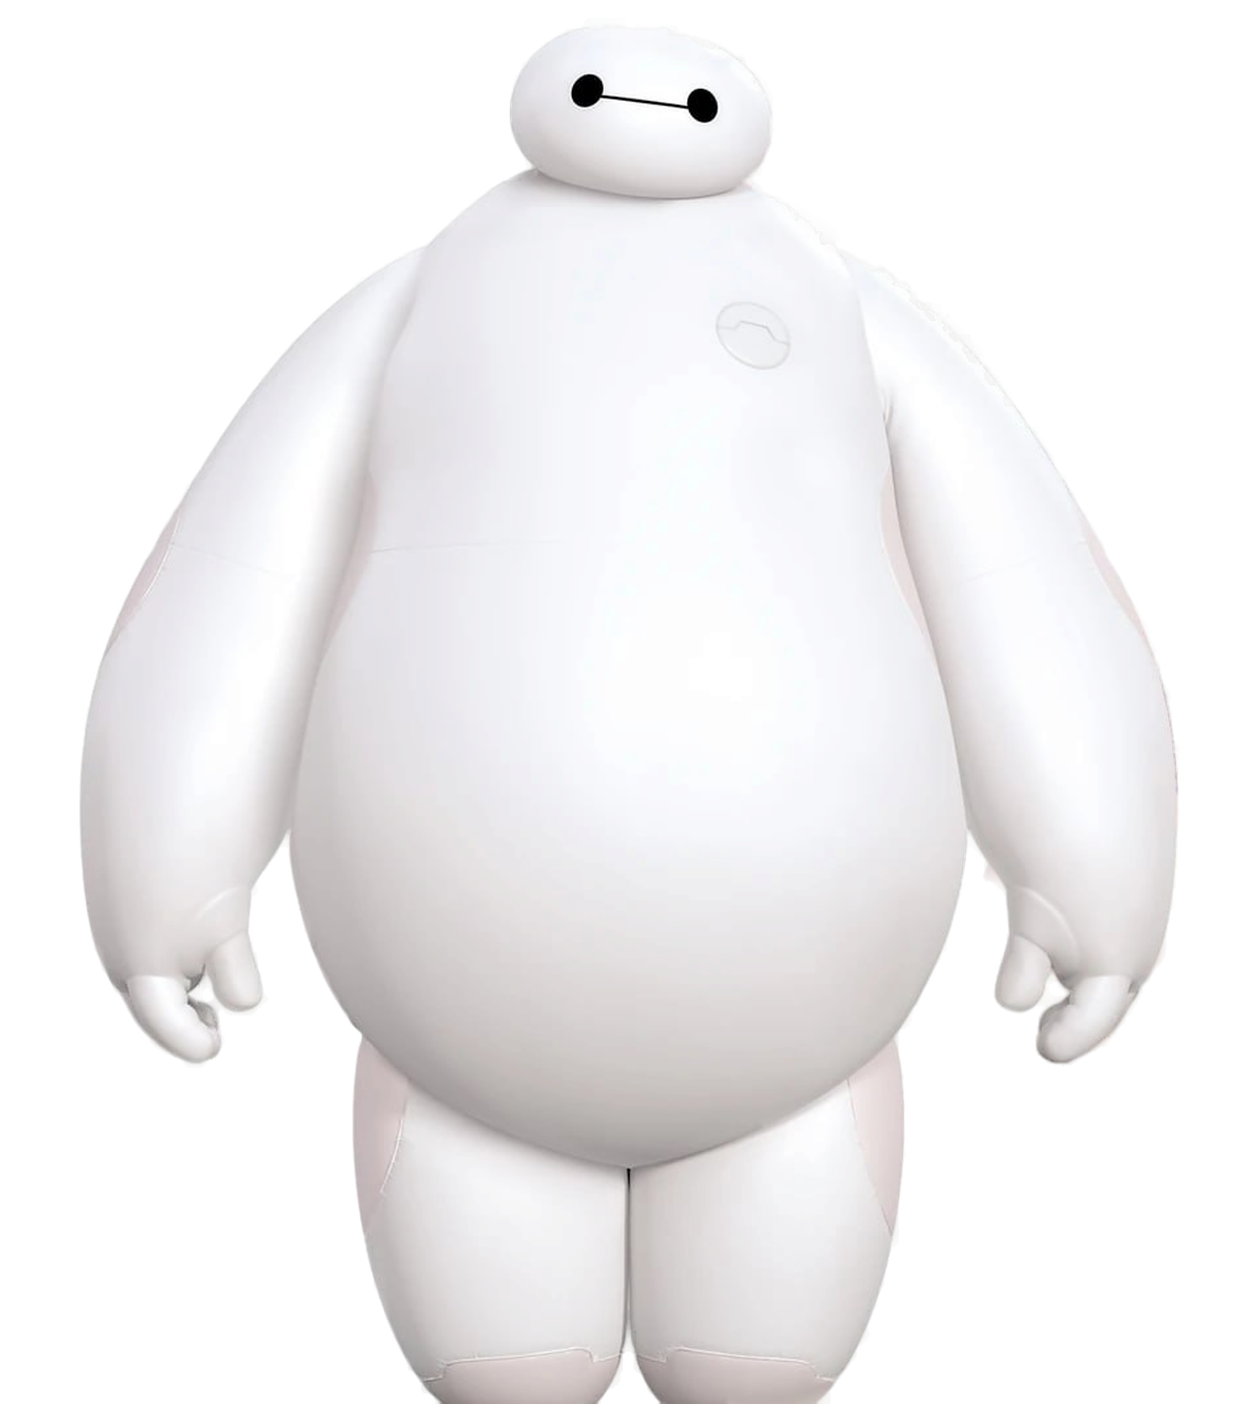
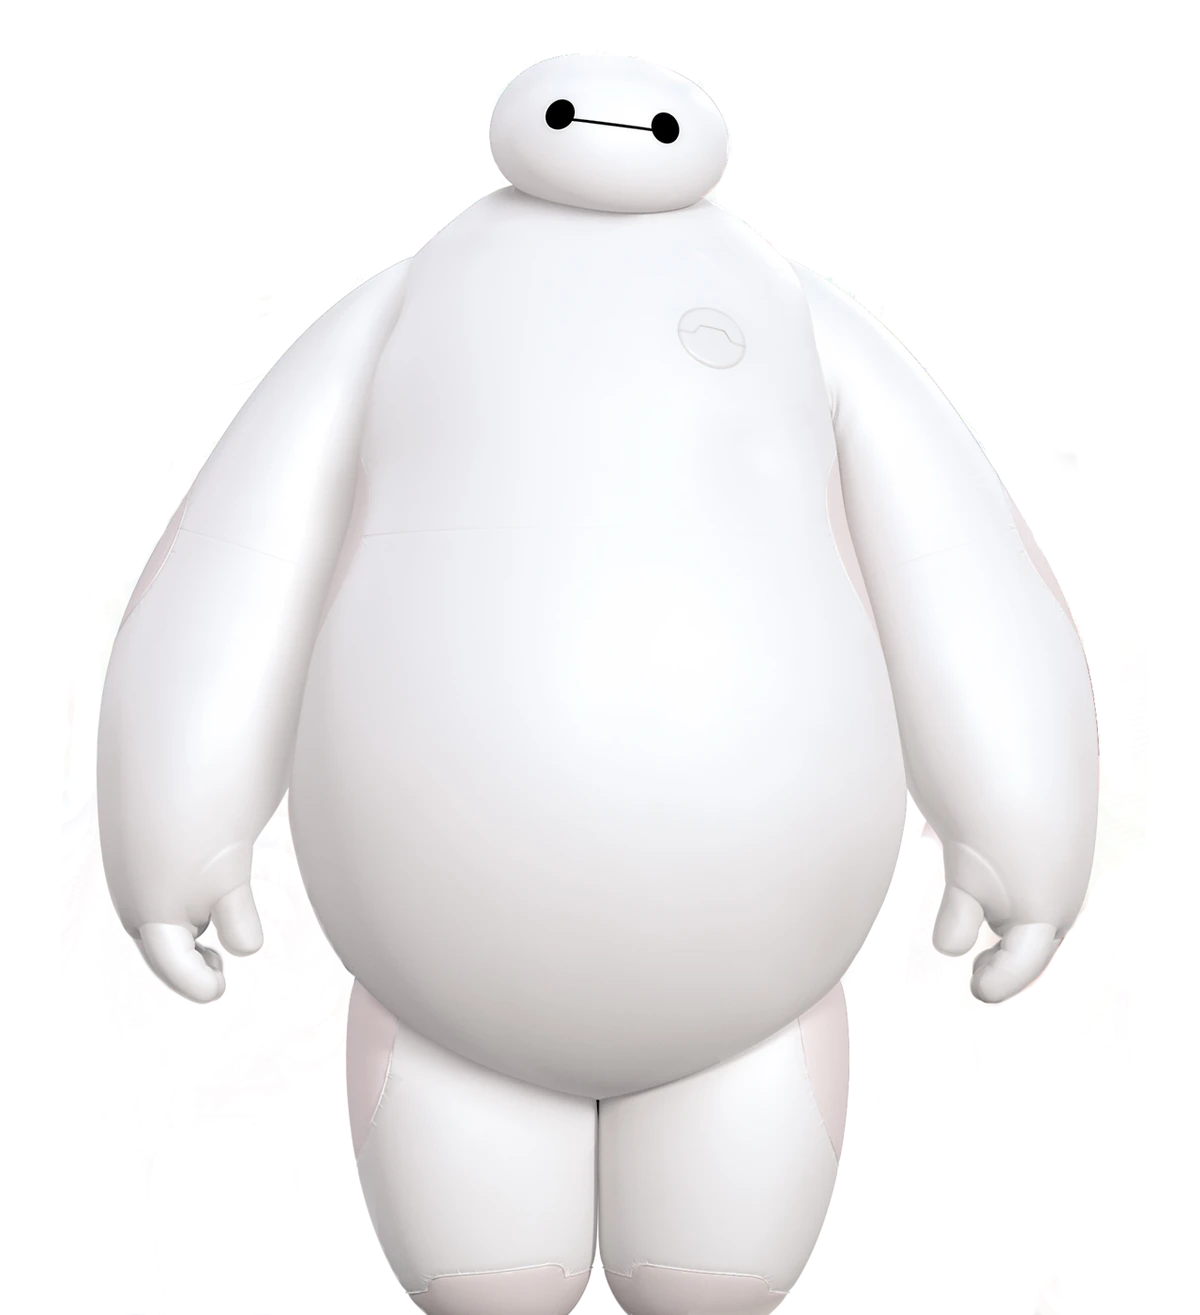
fix(robot): render con alpha limpio (sin cantos) + modo por defecto Greet (quieto)
- xpaceos-robot-chest-photo.png reemplazado por el render con canal alpha (ADMIRITO_Render),
  cache-bust v=admirito-alpha → adiós halo/cantos.
- setMode('greet') por defecto + active en Greet + label 'visitor greeting' → el robot
  se queda quieto en vez de patrullar.

diff --git a/robot/index.html b/robot/index.html
@@ -176,11 +176,11 @@
         <div class="scanline" aria-hidden="true"></div>
         <div class="hud">
           <span class="pill"><span class="dot"></span>robot_surface online</span>
-          <span class="pill mission" id="mission-label">mission · retail media patrol</span>
+          <span class="pill mission" id="mission-label">mission · visitor greeting</span>
         </div>
         <div class="robot-area">
           <div class="robot" id="robot" role="img" aria-label="Robot with a chest screen fed by Admira.tv">
-            <img class="robot-photo" src="/assets/xpaceos-robot-chest-photo.png?v=admirito-cut3" alt="">
+            <img class="robot-photo" src="/assets/xpaceos-robot-chest-photo.png?v=admirito-alpha" alt="">
             <div class="chest" id="chest">
               <div class="screen-fallback"><div><small>Admira.tv local feed</small><b>DOOH</b></div></div>
               <iframe id="admira-feed" title="Admira.tv digital signage feed" src="https://admira.tv/canal.html?clean=1&screen=xpaceos-robot-chest&circuit=xpaceos-robot&slot=auto&refresh=20&max=24&muted=1&volume=1&cam=1&bridge=20260621-audio&mode=local" loading="eager" referrerpolicy="no-referrer-when-downgrade" sandbox="allow-scripts allow-same-origin allow-forms allow-popups" allow="autoplay; encrypted-media; fullscreen; picture-in-picture; camera; microphone"></iframe>
@@ -206,8 +206,8 @@
         <div class="panel">
           <h2>Mission mode</h2>
           <div class="controls" role="group" aria-label="Robot mission mode">
-            <button class="mode active" type="button" data-mode="patrol">Patrol</button>
-            <button class="mode" type="button" data-mode="greet">Greet</button>
+            <button class="mode" type="button" data-mode="patrol">Patrol</button>
+            <button class="mode active" type="button" data-mode="greet">Greet</button>
             <button class="mode" type="button" data-mode="standby">Standby</button>
           </div>
           <div class="feed-row">
@@ -767,7 +767,7 @@
 
   window.setTimeout(revealFeed, 1500);
 
-  setMode('patrol');
+  setMode('greet');
   syncAudioControl();
 </script>
 </body>
